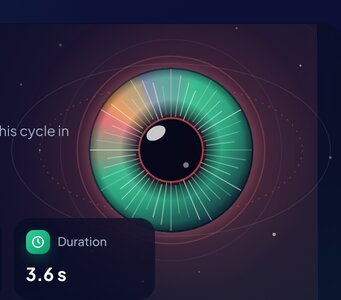
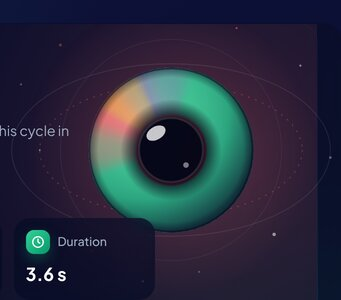
feat(ui): drop the white fibres from the results-pie iris
Claude-Session: https://claude.ai/code/session_01AsDFGD9SsaZfN5uRk1RBYy

Changed region(s): [[0.2053, 0.18, 0.7918, 0.84], [0.6158, 0.3, 0.6452, 0.33]]

diff --git a/frontend/src/features/dashboard/DashboardVisuals.tsx b/frontend/src/features/dashboard/DashboardVisuals.tsx
@@ -44,12 +44,12 @@ function slicePath(a0: number, a1: number): string {
 
 /**
  * Original art for the dashboard hero: QASight's eye as a glowing iris,
- * made of rings and fibres. With `slices` the iris is a pie of the latest
+ * made of rings and fibres. With `slices` (and no fibres) the iris is a pie of the latest
  * run's results (passed, failed, broken, skipped), the colours fading into
  * each other and shaded like a rounded iris, each slice showing its
  * count on hover; without them it takes the run's colour.
  */
-export function IrisArt({ tone, slices, fibres: showFibres = true, className }: { tone: RunTone; slices?: ResultSlice[]; fibres?: boolean; className?: string }) {
+export function IrisArt({ tone, slices, className }: { tone: RunTone; slices?: ResultSlice[]; className?: string }) {
   const id = useId().replace(/:/g, "");
   const c = ART[tone];
   const hasSlices = (slices ?? []).some((s) => s.count > 0);
@@ -125,7 +125,8 @@ export function IrisArt({ tone, slices, fibres: showFibres = true, className }: 
           <title>{`${slice.count} ${slice.label}`}</title>
         </path>
       ))}
-      {showFibres && fibres.map((f, i) => (
+      {/* Fibres only on the plain iris; on the results pie they hide the colours. */}
+      {!hasSlices && fibres.map((f, i) => (
         <line key={i} x1={f.x1} y1={f.y1} x2={f.x2} y2={f.y2} stroke="white" strokeOpacity={f.o} strokeWidth="1" strokeLinecap="round" />
       ))}
       <circle cx="180" cy="160" r="34" fill="#030616" />

diff --git a/docs/Specs & ADRs/UI Polish - 2026-11-08.md b/docs/Specs & ADRs/UI Polish - 2026-11-08.md
@@ -56,7 +56,7 @@ Taltal asked about the palette and the eye. The electric blue `#0075ff` was the 
 - `brand` in `frontend/tailwind.config.ts` is now the logo iris's green (`#34d399` at 400, `#10b981` at 500); the navy `ink` scale is unchanged. The page glow, `brand-tile`, the card edge, text selection and the help card follow it, and `EYE_BRAND_GREEN` replaces `EYE_BRAND_BLUE` as the logo's iris (the health page still tints it by score, grey with no score).
 - Primary buttons are bright green with dark text (`text-ink-950`): white on green fails WCAG contrast. The skip link and the AI settings save button do the same.
 - The accent shares a family with "passed". Failures stay red and warnings amber, so the signal still reads.
-- **Pie iris.** `IrisArt` takes `slices`: the iris becomes a ring split by the latest run's passed, failed, broken and skipped tests (the same green, red, amber and grey), each slice with its count on hover and a tiny minimum so a single broken test still shows. After Taltal's review the slices fade into each other (drawn as thin wedges, since SVG has no conic gradient) and the ring is shaded with a top-left light and a dark curve into the pupil, so it reads as a rounded 3D iris instead of a flat chart. A legend under the hero lists the counts. The counts come from `GET /api/v1/runs` (the dashboard overview only has passed and failed); no API change.
+- **Pie iris.** `IrisArt` takes `slices`: the iris becomes a ring split by the latest run's passed, failed, broken and skipped tests (the same green, red, amber and grey), each slice with its count on hover and a tiny minimum so a single broken test still shows. After Taltal's review the slices fade into each other (drawn as thin wedges, since SVG has no conic gradient) and the ring is shaded with a top-left light and a dark curve into the pupil, so it reads as a rounded 3D iris instead of a flat chart. Taltal then chose to drop the run-coloured rim and the white fibres on the pie, so only the blended results show. A legend under the hero lists the counts. The counts come from `GET /api/v1/runs` (the dashboard overview only has passed and failed); no API change.
 
 Not changed: the printed and exported report (white paper, its own colours), the docs site theme and the README screenshots, which still show blue until they are retaken.
 
